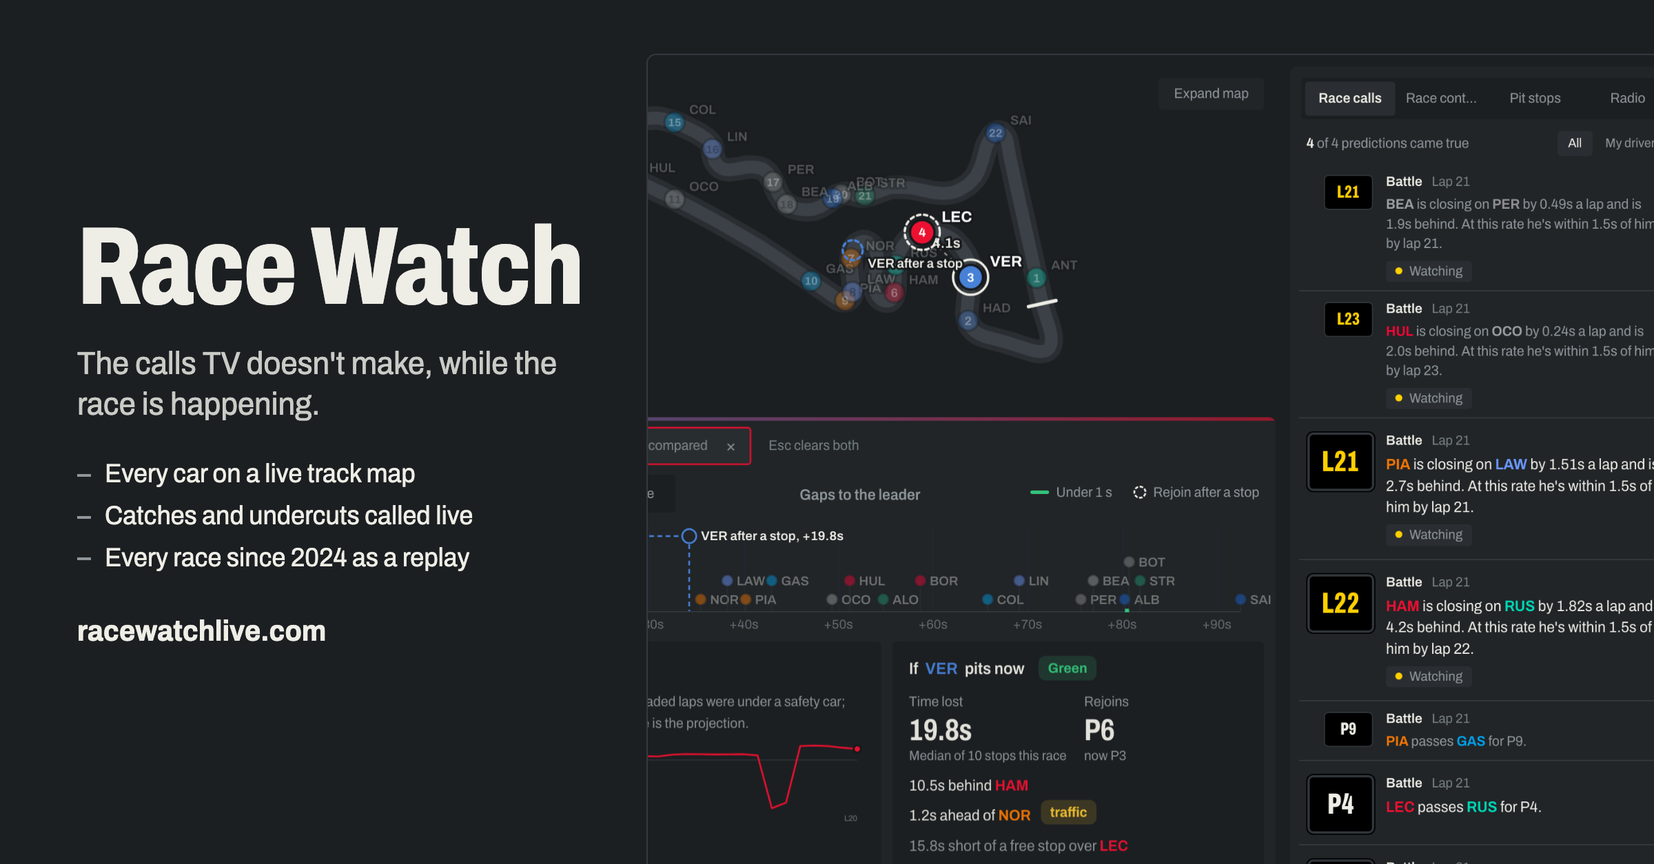
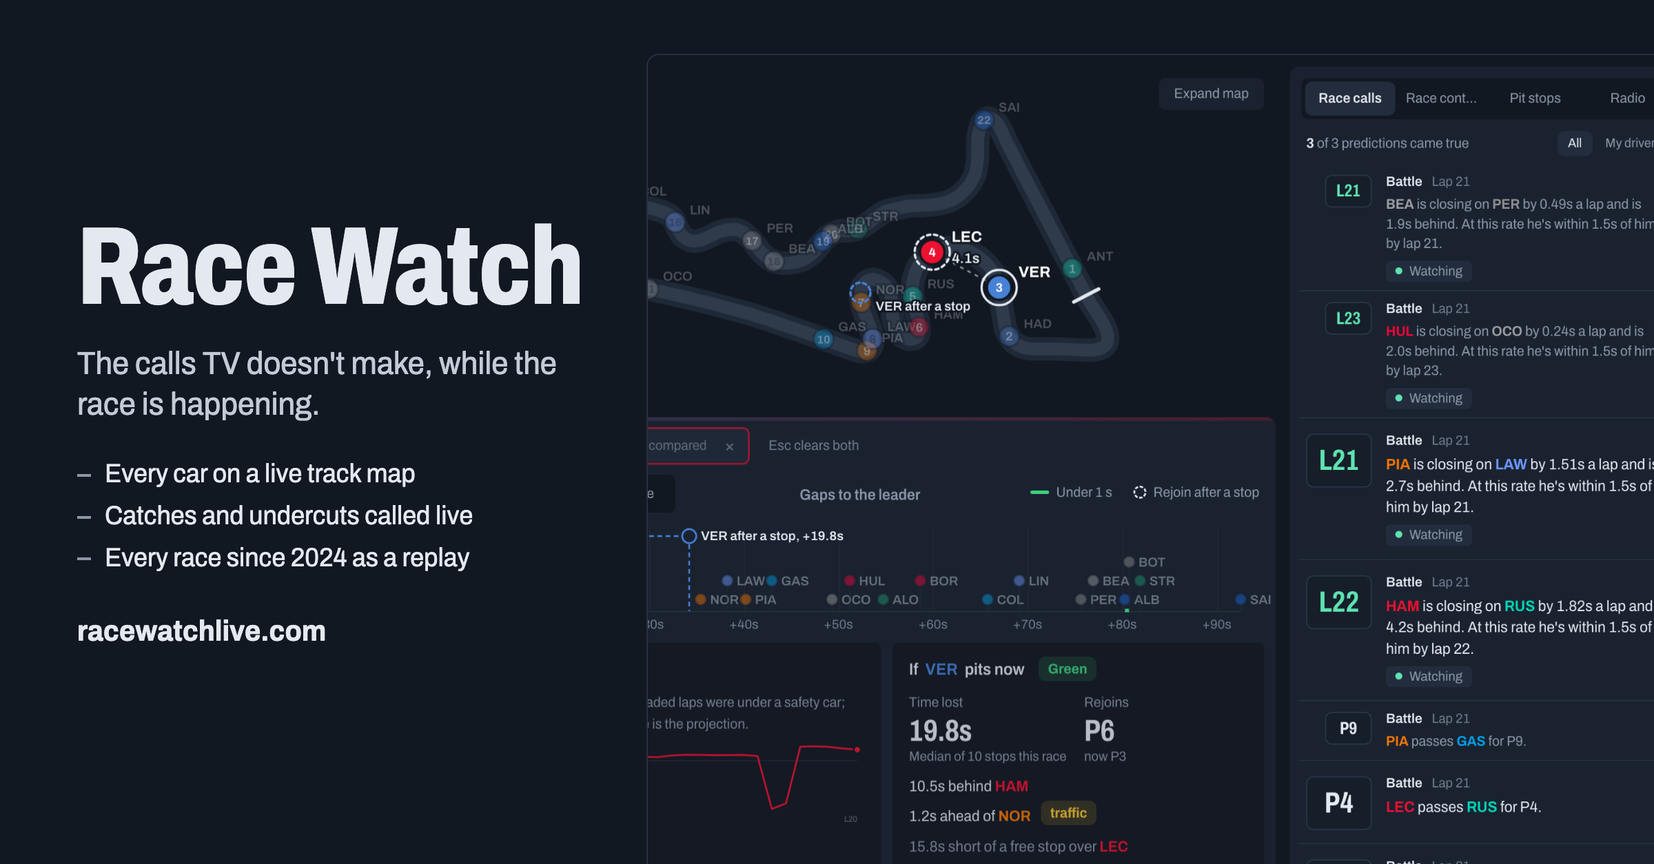
Slate and mint: calmer night palette, boards as slate panels with mint figures
Replaces the black, yellow, white and grey combination: night-slate page and
panels, mint for the number to watch, a fine edge instead of the double frame,
slightly less condensed board type, and the countdown as 1d 04h with small units.
Map, charts and link preview follow.

Claude-Session: https://claude.ai/code/session_01MbDZgdd5jebiYP31ShFBi1

diff --git a/style.css b/style.css
@@ -1,28 +1,29 @@
-/* Race Watch: asphalt and track paint, and one pit board per call.
-   Saturated colour is data (teams, tyres, flags); signal yellow marks the number
-   to watch on a pit board; lights red means live and nothing else. */
+/* Race Watch: night slate, and one pit board per call.
+   Saturated colour is data (teams, tyres, flags); mint marks the number to watch
+   on a board; lights red means live and nothing else. */
 :root {
-  --asphalt: #1c1f22;   /* page */
-  --kerb: #212528;      /* panels */
-  --pitlane: #2a2e32;   /* raised: hover, inputs */
-  --line: #34393e;      /* painted lines between things */
-  --chalk: #eeede6;     /* track paint: text */
-  --fog: #8f969b;       /* concrete: secondary text */
-  --dim: #788085;       /* tertiary */
-  --board: #000;        /* pit boards only */
-  --signal: #ffd000;    /* the number to watch on a pit board, and keyboard focus */
-  --lights: #ff2e1f;    /* live, and nothing else */
-  --green: #34c27a;
+  --asphalt: #121821;   /* page: night slate */
+  --kerb: #1a2230;      /* panels */
+  --pitlane: #222c3c;   /* raised: hover, inputs */
+  --line: #26303f;      /* lines between things */
+  --chalk: #e4e9f0;     /* text */
+  --fog: #8b97a8;       /* secondary text */
+  --dim: #6f7b8d;       /* tertiary */
+  --board: #161e2a;     /* pit boards */
+  --board-edge: #2a3546;
+  --signal: #5fe3b0;    /* mint: the number to watch on a board, and keyboard focus */
+  --lights: #ff3b30;    /* live, and nothing else */
+  --green: #3ecf7e;
   --yellow: #f2c230;    /* yellow flag / safety car */
   --red: #e5484d;       /* red flag, over a limit, lost places */
   --purple: #a970ff;
   --fc: var(--chalk);   /* focus driver's team colour, set by JS */
   --cc: var(--fog);     /* compared driver's team colour, set by JS */
   --ease: cubic-bezier(.2, .8, .2, 1);
-  --r-lg: 6px;
-  --r-md: 4px;
-  --r-sm: 3px;
-  --r-pill: 3px;
+  --r-lg: 8px;
+  --r-md: 6px;
+  --r-sm: 4px;
+  --r-pill: 6px;
 }
 
 * { box-sizing: border-box; }
@@ -595,7 +596,7 @@ body.is-quali .map-wrap { grid-row: 1 / span 2; }
 .sr.out { opacity: .4; }
 .sr-name { font-size: 11.5px; font-weight: 700; padding-left: 8px; box-shadow: inset 3px 0 0 var(--c, transparent); }
 .sr-track { position: relative; height: 11px; background: color-mix(in srgb, var(--line) 45%, transparent); border-radius: 3px; }
-.st { position: absolute; top: 0; height: 11px; background: var(--c); border-radius: 3px; box-shadow: 0 0 0 1px var(--kerb); display: flex; align-items: center; gap: 4px; padding-left: 4px; overflow: hidden; font-style: normal; color: #12161d; font-size: 9.5px; line-height: 1; }
+.st { position: absolute; top: 0; height: 11px; background: var(--c); border-radius: 3px; box-shadow: 0 0 0 1px var(--kerb); display: flex; align-items: center; gap: 4px; padding-left: 4px; overflow: hidden; font-style: normal; color: #121821; font-size: 9.5px; line-height: 1; }
 .st.used { background: repeating-linear-gradient(135deg, var(--c) 0 3px, color-mix(in srgb, var(--c) 70%, #000) 3px 5px); }
 .st.unsure { background: transparent; box-shadow: inset 0 0 0 1px var(--fog); color: var(--fog); }
 .st b { font-weight: 800; }
@@ -675,7 +676,7 @@ body.lobby-on { overflow: hidden; }
 .pu-limits b { color: var(--chalk); font-size: 16px; margin-right: 2px; }
 .pu-limits em { font-style: normal; color: var(--dim); font-size: 12px; }
 .pu-legend { display: flex; flex-wrap: wrap; gap: 6px 18px; margin: 18px 0 8px; font-size: 12px; color: var(--fog); }
-.lg { display: inline-block; width: 10px; height: 10px; border-radius: 2px; margin-right: 6px; vertical-align: -1px; background: #4a5566; }
+.lg { display: inline-block; width: 10px; height: 10px; border-radius: 2px; margin-right: 6px; vertical-align: -1px; background: #3a4658; }
 .lg.full { background: var(--yellow); } .lg.over { background: var(--red); }
 .lg.fresh { background: none; box-shadow: inset 0 0 0 2px var(--chalk); border-radius: 50%; }
 .cc-scroll { overflow-x: auto; background: var(--kerb); border-radius: var(--r-md); }
@@ -694,7 +695,7 @@ td.pu { min-width: 82px; }
 .pu-n { display: inline-block; width: 18px; font-weight: 700; font-size: 14px; }
 .pips { display: inline-flex; gap: 2px; vertical-align: 1px; }
 .pips i { width: 7px; height: 11px; border-radius: 2px; background: var(--pitlane); }
-.pips i.u { background: #8d97a6; }
+.pips i.u { background: #8b97a8; }
 .pips i.x { background: var(--red); }
 td.pu.full .pips i.u { background: var(--yellow); }
 td.pu.full .pu-n { color: var(--yellow); }
@@ -798,12 +799,12 @@ td.pu.fresh .pu-n { box-shadow: 0 0 0 2px var(--chalk); border-radius: 50%; text
    ===================================================================== */
 .sr-only { position: absolute; width: 1px; height: 1px; overflow: hidden; clip: rect(0 0 0 0); white-space: nowrap; }
 
-/* the pit board: black face, a thin metal frame, extra-condensed figures */
+/* the pit board: a slate panel with one fine edge and condensed figures */
 .pitboard {
-  background: var(--board); color: var(--chalk); border-radius: var(--r-sm);
-  box-shadow: 0 0 0 2px #30353a, 0 0 0 3px var(--board);
-  font-family: 'Archivo', system-ui, sans-serif; font-weight: 800; font-stretch: 62%;
-  line-height: .92; letter-spacing: .01em; font-variant-numeric: tabular-nums;
+  background: var(--board); color: var(--chalk); border-radius: var(--r-lg);
+  border: 1px solid var(--board-edge);
+  font-family: 'Archivo', system-ui, sans-serif; font-weight: 700; font-stretch: 72%;
+  line-height: .95; font-variant-numeric: tabular-nums;
 }
 
 /* buttons: paint for the main action, lights red only to go live, quiet for the rest */
@@ -811,7 +812,7 @@ td.pu.fresh .pu-n { box-shadow: 0 0 0 2px var(--chalk); border-radius: 50%; text
 .btn-paint { background: var(--chalk); color: var(--asphalt); font-weight: 650; padding: 8px 14px; border-radius: var(--r-sm); border: 0; }
 .btn-paint:hover { background: #fff; border-color: transparent; }
 .btn-live { background: var(--lights); color: #fff; font-weight: 700; padding: 9px 18px; border-radius: var(--r-sm); border: 0; }
-.btn-live:hover { background: #ff4a3d; border-color: transparent; }
+.btn-live:hover { background: #ff5247; border-color: transparent; }
 .btn-quiet { background: transparent; color: var(--chalk); box-shadow: inset 0 0 0 1px var(--line); padding: 6px 12px; border-radius: var(--r-sm); border: 0; }
 .btn-quiet:hover { box-shadow: inset 0 0 0 1px var(--fog); }
 .btn-paint.sm, .btn-live.sm, .btn-quiet.sm { padding: 5px 11px; font-size: 12.5px; }
@@ -827,14 +828,14 @@ button.link:hover { color: var(--chalk); text-decoration-color: var(--fog); bord
 .call:first-child { border-top-color: transparent; }
 .call:hover { background: color-mix(in srgb, var(--pitlane) 60%, transparent); }
 .call.mine { box-shadow: inset 3px 0 0 var(--mc); }
-.call-pb { height: 46px; margin: 3px 0 0 3px; display: grid; place-items: center; font-size: 25px; }
+.call-pb { height: 46px; margin: 2px 0 0; border-radius: var(--r-md); display: grid; place-items: center; font-size: 25px; }
 .call-pb.word { font-size: 15px; }
 .call-pb.open { color: var(--signal); }
 .call-body { min-width: 0; }
 .call-meta { font-stretch: 94%; }
 .call-type.battle, .call-type.strategy, .call-type.status, .call-type.stewards { color: var(--chalk); padding: 0; }
 .call.minor { padding-top: 7px; padding-bottom: 7px; background: transparent; }
-.call.minor .call-pb { height: 28px; font-size: 15px; width: 40px; justify-self: end; box-shadow: 0 0 0 1px #30353a; }
+.call.minor .call-pb { height: 28px; font-size: 15px; width: 40px; justify-self: end; }
 .call.minor .call-pb.word { font-size: 10px; }
 .call.fresh { animation: none; }
 .call.fresh .call-pb { animation: board-out .5s var(--ease); transform-origin: 50% 0; }
@@ -865,14 +866,15 @@ button.link:hover { color: var(--chalk); text-decoration-color: var(--fog); bord
   grid-template-areas: "board copy" "board map";
 }
 .lb-hero { display: contents; }
-.hero-pb { grid-area: board; align-self: start; padding: 18px 20px 20px; display: grid; gap: 6px; margin: 3px; }
-.hp-row { display: flex; justify-content: space-between; align-items: baseline; font-size: 50px; }
+.hero-pb { grid-area: board; align-self: start; padding: 18px 20px 20px; display: grid; gap: 4px; }
+.hp-big small { font-size: .5em; margin: 0 14px 0 3px; }
+.hp-row { display: flex; justify-content: space-between; align-items: baseline; font-size: 46px; }
 .hp-dim { color: var(--fog); }
-.hp-big { font-size: 84px; color: var(--signal); margin-top: 4px; white-space: nowrap; }
+.hp-big { font-size: 80px; color: var(--signal); margin-top: 4px; white-space: nowrap; }
 .hp-big.live { color: var(--lights); }
 .hero-copy { grid-area: copy; }
 .hero-copy h1 { margin: 0 0 10px; font-size: 42px; line-height: 1.02; font-weight: 750; font-stretch: 85%; letter-spacing: -.01em; }
-.hero-copy p { margin: 0 0 18px; max-width: 54ch; color: #c9cbc6; font-size: 15px; line-height: 1.5; }
+.hero-copy p { margin: 0 0 18px; max-width: 54ch; color: #c3cbd6; font-size: 15px; line-height: 1.5; }
 .hero-copy .hero-note { margin: 12px 0 0; color: var(--fog); font-size: 13px; }
 .lb-preview { grid-area: map; margin-top: 24px; border-top: 1px solid var(--line); padding-top: 10px; display: flex; flex-direction: column; }
 #pv-map { width: 100%; height: 210px; display: block; }
@@ -912,7 +914,7 @@ button.link:hover { color: var(--chalk); text-decoration-color: var(--fog); bord
 .rp-pod { width: 1%; }
 .rp-pod span { margin-right: 14px; font-weight: 600; font-size: 13.5px; }
 .rp-pod span:first-child { color: var(--chalk); }
-.rp-pod span:not(:first-child) { color: #c9cbc6; font-weight: 500; }
+.rp-pod span:not(:first-child) { color: #c3cbd6; font-weight: 500; }
 .rp-pod em { font-style: normal; color: var(--fog); font-weight: 500; margin-right: 5px; font-size: 12px; }
 .rp-act { width: 1%; text-align: right; }
 .rp-act .link { margin-right: 10px; }

diff --git a/app.js b/app.js
@@ -11,10 +11,10 @@ const TYRES = {
   INTERMEDIATE: ['I', '#43b02a'], WET: ['W', '#2b7bff'],
 };
 const STATUS = {
-  PRE: ['Pre-race', '#34393e'], GREEN: ['Green flag', '#34c27a'],
+  PRE: ['Pre-race', '#26303f'], GREEN: ['Green flag', '#34c27a'],
   SC: ['Safety car', '#f2c230'], SC_IN: ['Safety car in this lap', '#f2c230'],
   VSC: ['Virtual safety car', '#f2c230'], VSC_END: ['VSC ending', '#f2c230'],
-  RED: ['Red flag', '#e5484d'], FINISH: ['Chequered flag', '#eeede6'],
+  RED: ['Red flag', '#e5484d'], FINISH: ['Chequered flag', '#e4e9f0'],
 };
 const OUT_AFTER_MS = 30_000; // no location sample for this long = car is out
 
@@ -349,9 +349,9 @@ function rcColour(r) {
   if (f === 'RED') return '#e5484d';
   if (f.includes('YELLOW') || r.category === 'SafetyCar') return '#f2c230';
   if (f === 'GREEN' || f === 'CLEAR') return '#34c27a';
-  if (f === 'CHEQUERED') return '#eeede6';
+  if (f === 'CHEQUERED') return '#e4e9f0';
   if (f === 'BLACK AND WHITE' || m.includes('PENALTY') || m.includes('INVESTIGAT')) return '#a970ff';
-  return '#646b70';
+  return '#6f7b8d';
 }
 
 // Race control shouts in capitals; sentence case reads faster, but driver
@@ -444,7 +444,7 @@ function project(x, y) {
 // dark text on light team colours (Haas white, McLaren papaya), light on dark
 function inkFor(hex) {
   const v = parseInt(hex.slice(1), 16), r = v >> 16, g = (v >> 8) & 255, b = v & 255;
-  return (0.299 * r + 0.587 * g + 0.114 * b) > 150 ? '#16191c' : '#ffffff';
+  return (0.299 * r + 0.587 * g + 0.114 * b) > 150 ? '#121821' : '#ffffff';
 }
 // laps behind the leader, from the timing feed ("+1 LAP") or lap counts
 function lapsDown(r, leader) {
@@ -453,7 +453,7 @@ function lapsDown(r, leader) {
   // for a moment each time the leader crosses the line
   return m ? Number(m[1]) : 0;
 }
-function halo(px, py, label, fill, stroke = '#16191c') {
+function halo(px, py, label, fill, stroke = '#121821') {
   ctx.lineWidth = 3.5; ctx.strokeStyle = stroke; ctx.strokeText(label, px, py);
   ctx.fillStyle = fill; ctx.fillText(label, px, py);
 }
@@ -472,15 +472,15 @@ function drawMap(t, board) {
   d.track.forEach(([x, y], i) => { const [px, py] = project(x, y); i ? path.lineTo(px, py) : path.moveTo(px, py); });
   path.closePath();
   const neutral = status === 'SC' || status === 'VSC' || status === 'SC_IN' || status === 'VSC_END';
-  ctx.strokeStyle = neutral ? 'rgba(242,194,48,.35)' : status === 'RED' ? 'rgba(229,72,77,.4)' : '#2a2e32';
+  ctx.strokeStyle = neutral ? 'rgba(242,194,48,.35)' : status === 'RED' ? 'rgba(229,72,77,.4)' : '#1f2836';
   ctx.lineWidth = 20; ctx.stroke(path);
-  ctx.strokeStyle = '#3b4146'; ctx.lineWidth = 11; ctx.stroke(path);
+  ctx.strokeStyle = '#2f3a4b'; ctx.lineWidth = 11; ctx.stroke(path);
 
   // start/finish
   const [sx, sy] = project(...d.track[0]);
   const [nx, ny] = project(...d.track[Math.min(4, d.track.length - 1)]);
   const ang = Math.atan2(ny - sy, nx - sx) + Math.PI / 2;
-  ctx.strokeStyle = '#eeede6'; ctx.lineWidth = 3;
+  ctx.strokeStyle = '#e4e9f0'; ctx.lineWidth = 3;
   ctx.beginPath();
   ctx.moveTo(sx - Math.cos(ang) * 12, sy - Math.sin(ang) * 12);
   ctx.lineTo(sx + Math.cos(ang) * 12, sy + Math.sin(ang) * 12);
@@ -498,13 +498,13 @@ function drawMap(t, board) {
   // battle line between the followed car and the compared one, labelled with the gap
   if (sel != null && cmp != null && pos.has(sel) && pos.has(cmp)) {
     const [ax, ay] = pos.get(sel), [bx, by] = pos.get(cmp);
-    ctx.setLineDash([2, 5]); ctx.lineWidth = 1.5; ctx.strokeStyle = 'rgba(238,237,230,.55)';
+    ctx.setLineDash([2, 5]); ctx.lineWidth = 1.5; ctx.strokeStyle = 'rgba(228,233,240,.55)';
     ctx.beginPath(); ctx.moveTo(ax, ay); ctx.lineTo(bx, by); ctx.stroke(); ctx.setLineDash([]);
     const ga = typeof gapAt === 'function' ? gapAt(d, sel, t) : null;
     const gb = typeof gapAt === 'function' ? gapAt(d, cmp, t) : null;
     if (ga != null && gb != null) {
       ctx.font = '600 12px Archivo, system-ui, sans-serif'; ctx.textAlign = 'center';
-      halo((ax + bx) / 2, (ay + by) / 2 - 6, `${Math.abs(gb - ga).toFixed(1)}s`, '#eeede6');
+      halo((ax + bx) / 2, (ay + by) / 2 - 6, `${Math.abs(gb - ga).toFixed(1)}s`, '#e4e9f0');
       ctx.textAlign = 'left';
     }
   }
@@ -536,10 +536,10 @@ function drawMap(t, board) {
     const rad = on ? 10.5 : 8.5;
     ctx.beginPath(); ctx.arc(px, py, rad, 0, Math.PI * 2);
     ctx.fillStyle = r.drv.colour; ctx.fill();
-    ctx.lineWidth = 2; ctx.strokeStyle = '#16191c'; ctx.stroke();
+    ctx.lineWidth = 2; ctx.strokeStyle = '#121821'; ctx.stroke();
     if (down > 0) {
       ctx.setLineDash([2, 2]); ctx.beginPath(); ctx.arc(px, py, rad + 2.5, 0, Math.PI * 2);
-      ctx.lineWidth = 1.5; ctx.strokeStyle = '#8f969b'; ctx.stroke(); ctx.setLineDash([]);
+      ctx.lineWidth = 1.5; ctx.strokeStyle = '#8b97a8'; ctx.stroke(); ctx.setLineDash([]);
     }
     if (place) {
       ctx.font = `700 ${place > 9 ? 9.5 : 10.5}px Archivo, system-ui, sans-serif`;
@@ -550,11 +550,11 @@ function drawMap(t, board) {
     if (on) {
       if (isCmp) ctx.setLineDash([3, 3]);
       ctx.beginPath(); ctx.arc(px, py, rad + 4.5, 0, Math.PI * 2);
-      ctx.lineWidth = 2; ctx.strokeStyle = '#eeede6'; ctx.stroke(); ctx.setLineDash([]);
+      ctx.lineWidth = 2; ctx.strokeStyle = '#e4e9f0'; ctx.stroke(); ctx.setLineDash([]);
     }
     ctx.font = `${on ? 700 : 600} ${on ? 13 : 11}px Archivo, system-ui, sans-serif`;
     const label = down > 0 ? `${r.drv.code} +${down}L` : r.drv.code;
-    halo(px + rad + (on ? 6 : 4), py - (on ? 9 : 7), label, on ? '#ffffff' : down > 0 ? '#8f969b' : '#c9cbc6');
+    halo(px + rad + (on ? 6 : 4), py - (on ? 9 : 7), label, on ? '#ffffff' : down > 0 ? '#8b97a8' : '#c3cbd6');
     ctx.globalAlpha = 1;
   }
 
@@ -568,7 +568,7 @@ function drawMap(t, board) {
       ctx.setLineDash([3, 3]); ctx.lineWidth = 2; ctx.strokeStyle = d.drivers.get(sel).colour;
       ctx.beginPath(); ctx.arc(px, py, 8.5, 0, Math.PI * 2); ctx.stroke(); ctx.setLineDash([]);
       ctx.font = '600 11px Archivo, system-ui, sans-serif';
-      halo(px + 13, py + 15, `${d.drivers.get(sel).code} after a stop`, '#eeede6');
+      halo(px + 13, py + 15, `${d.drivers.get(sel).code} after a stop`, '#e4e9f0');
     }
   }
 

diff --git a/analysis.js b/analysis.js
@@ -242,9 +242,9 @@ function drawRibbon(d, t, field, ghost) {
   rctx.font = '10px system-ui'; rctx.textAlign = 'center';
   for (let g = 0; g <= maxGap; g += step) {
     rctx.fillStyle = '#212833'; rctx.fillRect(Math.round(x(g)), 6, 1, axisY - 6);
-    rctx.fillStyle = '#646b70'; rctx.font = '11px Archivo, system-ui'; rctx.fillText(g === 0 ? 'Leader' : `+${g}s`, x(g), h - 3);
+    rctx.fillStyle = '#6f7b8d'; rctx.font = '11px Archivo, system-ui'; rctx.fillText(g === 0 ? 'Leader' : `+${g}s`, x(g), h - 3);
   }
-  rctx.fillStyle = '#34393e'; rctx.fillRect(L, axisY, w - L - R, 1);
+  rctx.fillStyle = '#26303f'; rctx.fillRect(L, axisY, w - L - R, 1);
 
   // DRS links between consecutive cars
   for (let i = 1; i < pts.length; i++) {
@@ -270,17 +270,17 @@ function drawRibbon(d, t, field, ghost) {
   for (const { p, px, py } of placed) {
     const on = p.n === sel || p.n === cmp;
     rctx.globalAlpha = sel != null && !on ? 0.45 : 1;
-    rctx.strokeStyle = '#34393e'; rctx.lineWidth = 1;
+    rctx.strokeStyle = '#26303f'; rctx.lineWidth = 1;
     rctx.beginPath(); rctx.moveTo(px, py); rctx.lineTo(px, axisY); rctx.stroke();
     rctx.beginPath(); rctx.arc(px, py, on ? 6.5 : 5, 0, Math.PI * 2);
     rctx.fillStyle = p.drv.colour; rctx.fill();
-    rctx.lineWidth = 2; rctx.strokeStyle = '#212528'; rctx.stroke();
+    rctx.lineWidth = 2; rctx.strokeStyle = '#1a2230'; rctx.stroke();
     if (on) {
       if (p.n === cmp) rctx.setLineDash([2, 2]);
       rctx.beginPath(); rctx.arc(px, py, 9.5, 0, Math.PI * 2);
-      rctx.lineWidth = 1.5; rctx.strokeStyle = '#eeede6'; rctx.stroke(); rctx.setLineDash([]);
+      rctx.lineWidth = 1.5; rctx.strokeStyle = '#e4e9f0'; rctx.stroke(); rctx.setLineDash([]);
     }
-    rctx.fillStyle = on ? '#fff' : '#c9cbc6'; rctx.font = `${on ? 700 : 600} 11px Archivo, system-ui`;
+    rctx.fillStyle = on ? '#fff' : '#c3cbd6'; rctx.font = `${on ? 700 : 600} 11px Archivo, system-ui`;
     rctx.textAlign = 'left'; rctx.fillText(p.drv.code, px + (on ? 12 : 8), py + 4);
     rctx.globalAlpha = 1;
   }
@@ -297,7 +297,7 @@ function drawRibbon(d, t, field, ghost) {
     rctx.beginPath(); rctx.moveTo(fromX, gy - 4); rctx.lineTo(fromX, gy + 4); rctx.stroke();
     rctx.beginPath(); rctx.arc(gx, gy, 6, 0, Math.PI * 2); rctx.stroke();
     const code = d.drivers.get(sel).code;
-    rctx.fillStyle = '#eeede6'; rctx.font = '600 11px Archivo, system-ui';
+    rctx.fillStyle = '#e4e9f0'; rctx.font = '600 11px Archivo, system-ui';
     const label = `${code} after a stop, +${ghost.loss.toFixed(1)}s`;
     const lw = rctx.measureText(label).width;
     const lx = gx + 10 + lw < w ? gx + 10 : gx - 10 - lw; // keep it on canvas
@@ -320,7 +320,7 @@ function gapChart(b, d) {
   // neutralised laps shaded
   for (const hp of hist) if (!hp.green) svg += `<rect x="${x(hp.lap - 1)}" y="${T}" width="${Math.max(1, x(hp.lap) - x(hp.lap - 1))}" height="${H - T - B}" fill="#f2c230" opacity=".13"/>`;
   // grid: 0 line + top
-  svg += `<line x1="${L}" x2="${W - R}" y1="${y(0)}" y2="${y(0)}" stroke="#34393e"/>`;
+  svg += `<line x1="${L}" x2="${W - R}" y1="${y(0)}" y2="${y(0)}" stroke="#26303f"/>`;
   svg += `<text x="${L - 4}" y="${y(0) + 3}" text-anchor="end" class="ax">0</text>`;
   svg += `<text x="${L - 4}" y="${y(yMax) + 8}" text-anchor="end" class="ax">${yMax.toFixed(0)}s</text>`;
   svg += `<text x="${L}" y="${H - 4}" class="ax">L${firstLap}</text><text x="${W - R}" y="${H - 4}" text-anchor="end" class="ax">L${lastLap}</text>`;
@@ -328,10 +328,10 @@ function gapChart(b, d) {
   svg += `<path d="${path}" fill="none" stroke="${d.drivers.get(b.B).colour}" stroke-width="2" stroke-linejoin="round"/>`;
   const last = hist.at(-1);
   if (b.catchLap) {
-    svg += `<line x1="${x(last.lap)}" y1="${y(last.gap)}" x2="${x(b.catchLap)}" y2="${y(0)}" stroke="#eeede6" stroke-width="1.5" stroke-dasharray="4 3"/>`;
-    svg += `<circle cx="${x(b.catchLap)}" cy="${y(0)}" r="4" fill="none" stroke="#eeede6" stroke-width="1.5"/>`;
+    svg += `<line x1="${x(last.lap)}" y1="${y(last.gap)}" x2="${x(b.catchLap)}" y2="${y(0)}" stroke="#e4e9f0" stroke-width="1.5" stroke-dasharray="4 3"/>`;
+    svg += `<circle cx="${x(b.catchLap)}" cy="${y(0)}" r="4" fill="none" stroke="#e4e9f0" stroke-width="1.5"/>`;
   }
-  svg += `<circle cx="${x(last.lap)}" cy="${y(last.gap)}" r="4" fill="${d.drivers.get(b.B).colour}" stroke="#16191c" stroke-width="2"/>`;
+  svg += `<circle cx="${x(last.lap)}" cy="${y(last.gap)}" r="4" fill="${d.drivers.get(b.B).colour}" stroke="#121821" stroke-width="2"/>`;
   // hover targets
   for (const h of hist) svg += `<rect x="${x(h.lap) - 4}" y="${T}" width="8" height="${H - T - B}" fill="transparent"><title>Lap ${h.lap}: ${d.drivers.get(b.B).code} ${h.gap >= 0 ? h.gap.toFixed(2) + 's behind' : (-h.gap).toFixed(2) + 's ahead of'} ${d.drivers.get(b.A).code}${h.green ? '' : ' (SC/VSC)'}</title></rect>`;
   return svg + '</svg>';

diff --git a/lobby.js b/lobby.js
@@ -80,7 +80,7 @@ function boardCount(ms) {
   if (ms <= 0) return 'NOW';
   const s = Math.floor(ms / 1000), d = Math.floor(s / 86400), h = Math.floor((s % 86400) / 3600);
   const p = (x) => String(x).padStart(2, '0');
-  return d >= 1 ? `${d}D ${p(h)}H` : `${p(h)}:${p(Math.floor((s % 3600) / 60))}:${p(s % 60)}`;
+  return d >= 1 ? `${d}<small>d</small>${p(h)}<small>h</small>` : `${p(h)}:${p(Math.floor((s % 3600) / 60))}:${p(s % 60)}`;
 }
 // "today", "tomorrow", "on Friday", or a date further out
 function lbRelDay(iso) {
@@ -94,7 +94,7 @@ function heroBoard(top, mid, big, cls = '', attrs = '') {
   return `<div class="pitboard hero-pb" aria-hidden="true">
     <div class="hp-row"><span>${esc(top[0])}</span><span class="hp-dim">${esc(top[1])}</span></div>
     <div class="hp-row"><span>${esc(mid[0])}</span><span class="hp-dim">${esc(mid[1])}</span></div>
-    <div class="hp-big ${cls}" ${attrs}>${esc(big)}</div>
+    <div class="hp-big ${cls}" ${attrs}>${big}</div>
   </div>`;
 }
 
@@ -320,7 +320,7 @@ function renderLobby() {
     if (!inLobby()) return;
     box.querySelectorAll('[data-countdown]').forEach((b) => {
       const ms = Date.parse(b.dataset.countdown) - Date.now();
-      b.textContent = b.dataset.fmt === 'board' ? boardCount(ms) : ms > 0 ? countdown(ms) : 'starting';
+      if (b.dataset.fmt === 'board') b.innerHTML = boardCount(ms); else b.textContent = ms > 0 ? countdown(ms) : 'starting';
     });
     const nowLive = !!window.liveInfo?.live;
     if (lobby.tab === 'races' && nowLive !== lastLive) { lastLive = nowLive; renderLobbyRaces(); }

diff --git a/extras.js b/extras.js
@@ -127,7 +127,7 @@ function drawPreview(cv, f) {
   const P = (x, y) => [v.ox + (x * v.c - y * v.s) * v.scale, v.oy - (x * v.s + y * v.c) * v.scale];
   ctx.clearRect(0, 0, w, h);
   ctx.lineJoin = ctx.lineCap = 'round';
-  ctx.strokeStyle = '#3b4146'; ctx.lineWidth = 9;
+  ctx.strokeStyle = '#2f3a4b'; ctx.lineWidth = 9;
   ctx.beginPath();
   p.trackPts.forEach(([x, y], i) => { const [sx, sy] = P(x, y); if (i) ctx.lineTo(sx, sy); else ctx.moveTo(sx, sy); });
   ctx.stroke();
@@ -139,7 +139,7 @@ function drawPreview(cv, f) {
     ctx.fillStyle = `#${c.colour}`;
     ctx.beginPath(); ctx.arc(sx, sy, 4.5, 0, Math.PI * 2); ctx.fill();
     if (ci < 3) { // name the top three; flip the label to the left near the right edge
-      ctx.fillStyle = '#eeede6'; ctx.font = '600 11px Archivo, system-ui, sans-serif';
+      ctx.fillStyle = '#e4e9f0'; ctx.font = '600 11px Archivo, system-ui, sans-serif';
       const tw = ctx.measureText(c.code).width;
       ctx.fillText(c.code, sx + 7 + tw > w - 2 ? sx - 7 - tw : sx + 7, sy - 6);
     }

diff --git a/strategy.js b/strategy.js
@@ -34,7 +34,7 @@ function renderStrategy(t) {
     const cur = segs.at(-1);
     const age = cur ? (cur.age0 + (r.curLap - cur.from)) : null;
     const bars = segs.map((s) => {
-      const [letter, colour] = s.c && TYRES[s.c] ? TYRES[s.c] : ['?', '#6e757a'];
+      const [letter, colour] = s.c && TYRES[s.c] ? TYRES[s.c] : ['?', '#7a8698'];
       const x = ((s.from - 1) / total) * 100, w = ((s.to - s.from + 1) / total) * 100;
       const laps = s.to - s.from + 1;
       const tip = `${r.drv.code}: ${s.c ? s.c.toLowerCase() : 'new tyres, compound not confirmed'}, laps ${s.from}–${s.to} (${laps} lap${laps > 1 ? 's' : ''})${s.age0 ? `, ${s.age0} laps old at the start` : ''}`;

diff --git a/index.html b/index.html
@@ -5,7 +5,7 @@
 <meta name="viewport" content="width=device-width, initial-scale=1">
 <title>Race Watch: live F1 race dashboard</title>
 <meta name="description" content="Every car on a live track map, plus the calls TV doesn't make: who catches whom, where a car rejoins after its stop, and whether the undercut works. Free, unofficial F1 fan project.">
-<meta name="theme-color" content="#1c1f22">
+<meta name="theme-color" content="#121821">
 <meta property="og:type" content="website">
 <meta property="og:site_name" content="Race Watch">
 <meta property="og:title" content="Race Watch: live F1 race dashboard">
